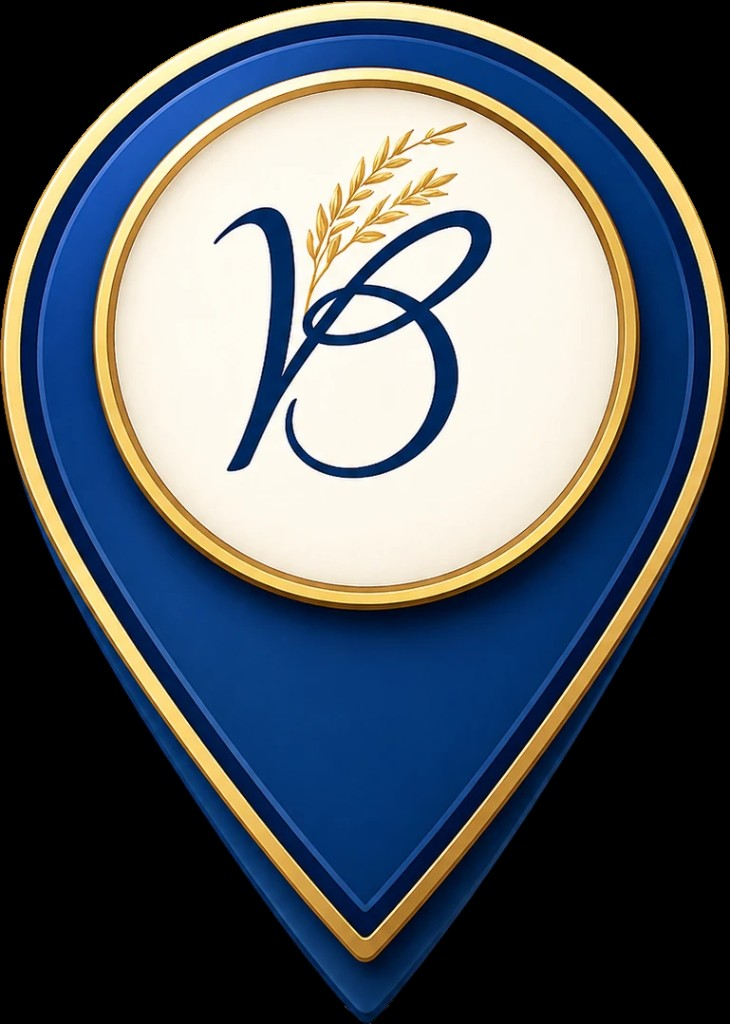
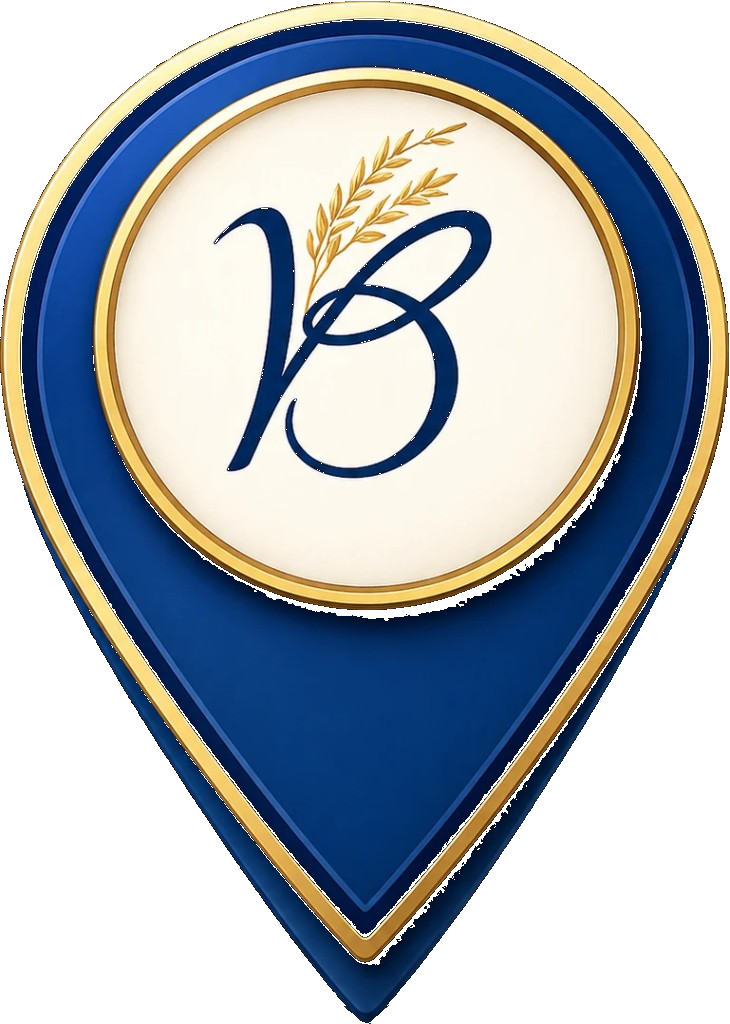
Corrige fundo preto do pin e zoom com Ctrl + rolagem.

diff --git a/public/js/mapa.js b/public/js/mapa.js
@@ -340,19 +340,42 @@
 			return;
 		}
 
-		g.map = L.map(g.mapaEl, { scrollWheelZoom: false }).setView(
-			[cfg.mapaLat, cfg.mapaLng],
-			cfg.mapaZoom
-		);
+		g.map = L.map(g.mapaEl, {
+			scrollWheelZoom: false,
+			smoothWheelZoom: false,
+		}).setView([cfg.mapaLat, cfg.mapaLng], cfg.mapaZoom);
 
 		L.tileLayer('https://{s}.tile.openstreetmap.org/{z}/{x}/{y}.png', {
 			attribution: '&copy; OpenStreetMap',
 			maxZoom: 18,
 		}).addTo(g.map);
 
-		g.map.on('click', function () {
-			g.map.scrollWheelZoom.enable();
-		});
+		// Ctrl / ⌘ / Alt + rolagem = zoom (igual ao preview).
+		var container = g.map.getContainer();
+		container.addEventListener(
+			'wheel',
+			function (e) {
+				if (!e.ctrlKey && !e.metaKey && !e.altKey) {
+					return;
+				}
+				e.preventDefault();
+				e.stopPropagation();
+				if (e.deltaY > 0) {
+					g.map.zoomOut();
+				} else if (e.deltaY < 0) {
+					g.map.zoomIn();
+				}
+			},
+			{ passive: false }
+		);
+
+		// Dica visual.
+		if (!container.querySelector('.vb-oe-zoom-hint')) {
+			var hint = document.createElement('p');
+			hint.className = 'vb-oe-zoom-hint';
+			hint.textContent = 'Ctrl + rolagem para zoom';
+			container.appendChild(hint);
+		}
 
 		g.markers = L.layerGroup().addTo(g.map);
 		carregarDados(g);

diff --git a/public/css/mapa.css b/public/css/mapa.css
@@ -48,6 +48,28 @@
 	min-height: 320px;
 	background: #e8ebe6;
 	z-index: 1;
+	position: relative;
+}
+
+.vb-oe-zoom-hint {
+	pointer-events: none;
+	position: absolute;
+	bottom: 12px;
+	left: 12px;
+	z-index: 1000;
+	margin: 0;
+	padding: 6px 12px;
+	border-radius: 999px;
+	background: rgba(26, 58, 107, 0.88);
+	color: #fff;
+	font-size: 11px;
+	font-weight: 600;
+}
+
+/* Pin sem fundo preto */
+.leaflet-marker-icon {
+	background: transparent !important;
+	border: 0 !important;
 }
 
 .vb-oe-lista {

diff --git a/valle-branco-onde-encontrar.php b/valle-branco-onde-encontrar.php
@@ -3,7 +3,7 @@
  * Plugin Name:       Valle Branco — Onde Encontrar
  * Plugin URI:        https://github.com/ElissonLDR/valle-branco-onde-encontrar
  * Description:       Mapa de pontos de venda com produtos, painel de controle e API para automação n8n (notas fiscais).
- * Version:           1.4.0
+ * Version:           1.4.1
  * Requires at least: 6.0
  * Requires PHP:      7.4
  * Author:            Valle Branco
@@ -22,7 +22,7 @@ if ( ! defined( 'ABSPATH' ) ) {
 }
 
 // Constantes do plugin (úteis para atualizações e caminhos).
-define( 'VB_OE_VERSION', '1.4.0' );
+define( 'VB_OE_VERSION', '1.4.1' );
 define( 'VB_OE_DB_VERSION', '1.0.0' );
 define( 'VB_OE_FILE', __FILE__ );
 define( 'VB_OE_PATH', plugin_dir_path( __FILE__ ) );